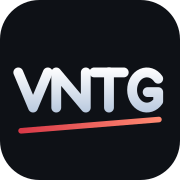
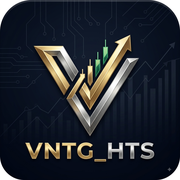
PWA — 전용 maskable 아이콘과 서비스 워커
홈 화면 아이콘이 북마크로 만들어져 누를 때마다 크롬 탭이 새로 열렸다. 안드로이드 크롬은 서비스 워커가 있어야 앱으로 설치해 준다.

캐시는 최소한만 한다. HTS 에서 낡은 값은 안 보여 주는 것보다 나쁘다 — 어제 종가를 오늘 현재가로 착각하면 판단이 통째로 틀어진다. /api/ 는 손도 대지 않고, 앱 껍데기만 네트워크 우선으로 담는다.

maskable 에 일반 아이콘을 쓰고 있었다. 안드로이드가 원형으로 깎을 때 가장자리 글자가 잘린다 — 여백을 둔 전용 파일로 바꿨다.

남은 건 HTTPS 뿐이다. Tailscale serve 로 붙이면 설치 가능해진다.

diff --git a/web/public/sw.js b/web/public/sw.js
@@ -1,0 +1,73 @@
+/*
+ * 서비스 워커.
+ *
+ * 있는 이유는 하나다 — **안드로이드 크롬이 이게 있어야 "앱으로 설치"를 시켜 준다.**
+ * 없으면 홈 화면 아이콘이 그냥 북마크가 되고, 누를 때마다 크롬 탭이 하나씩 새로 열린다.
+ *
+ * 그래서 **캐시는 최소한만** 한다. HTS 에서 낡은 값을 보여 주는 건 안 보여 주는 것보다
+ * 나쁘다 — 어제 종가를 오늘 현재가로 착각하면 판단이 통째로 틀어진다.
+ *
+ *   · `/api/` 는 **절대 캐시하지 않는다.** 손도 대지 않고 통과시킨다
+ *   · 앱 껍데기(HTML·JS·CSS·아이콘)만 담아 두되 **네트워크를 먼저** 본다.
+ *     새 버전을 받으면 그걸 쓰고, 網이 끊겼을 때만 담아 둔 걸 꺼낸다
+ *
+ * 미니PC 를 업데이트하면 파일 이름(해시)이 바뀌므로 낡은 껍데기는 아래에서 지운다.
+ */
+
+const CACHE = "vntg-shell-v1";
+
+self.addEventListener("install", (e) => {
+  // 새 워커가 즉시 일하게 한다 — 업데이트가 한 박자 늦게 먹는 걸 막는다
+  self.skipWaiting();
+  e.waitUntil(
+    caches.open(CACHE).then((c) =>
+      c.addAll(["./", "./index.html", "./manifest.json", "./icon-192.png"]).catch(() => undefined),
+    ),
+  );
+});
+
+self.addEventListener("activate", (e) => {
+  e.waitUntil(
+    caches
+      .keys()
+      .then((keys) => Promise.all(keys.filter((k) => k !== CACHE).map((k) => caches.delete(k))))
+      .then(() => self.clients.claim()),
+  );
+});
+
+self.addEventListener("fetch", (e) => {
+  const req = e.request;
+  if (req.method !== "GET") return;
+
+  const url = new URL(req.url);
+  // 시세·수급은 늘 새것이어야 한다. 캐시에 얼씬도 못 하게 한다
+  if (url.pathname.startsWith("/api/")) return;
+  // 다른 출처(야후 이미지 등)는 우리 소관이 아니다
+  if (url.origin !== self.location.origin) return;
+
+  e.respondWith(
+    fetch(req)
+      .then((res) => {
+        // 받은 김에 껍데기를 갱신해 둔다. 실패해도 응답은 그대로 돌려준다
+        if (res.ok) {
+          const copy = res.clone();
+          caches.open(CACHE).then((c) => c.put(req, copy)).catch(() => undefined);
+        }
+        return res;
+      })
+      .catch(async () => {
+        // 網이 끊겼을 때만 여기로 온다
+        const hit = await caches.match(req);
+        if (hit) return hit;
+        // SPA 라 어떤 경로로 들어와도 index.html 이 진입점이다
+        if (req.mode === "navigate") {
+          const shell = await caches.match("./index.html");
+          if (shell) return shell;
+        }
+        return new Response("오프라인입니다", {
+          status: 503,
+          headers: { "content-type": "text/plain; charset=utf-8" },
+        });
+      }),
+  );
+});

diff --git a/web/src/main.tsx b/web/src/main.tsx
@@ -15,3 +15,18 @@ ReactDOM.createRoot(document.getElementById("root")!).render(
     </AppearanceProvider>
   </React.StrictMode>,
 );
+
+/*
+ * 서비스 워커 등록.
+ *
+ * 안드로이드 크롬은 **서비스 워커가 있어야 홈 화면 아이콘을 앱으로 만들어 준다.**
+ * 없으면 북마크가 되고, 누를 때마다 크롬 탭이 하나씩 새로 열린다.
+ *
+ * 보안 컨텍스트(HTTPS 또는 localhost)에서만 등록된다 — http 로 접속하면 브라우저가
+ * 조용히 거절한다. 그래서 실패해도 아무 일도 하지 않는다. 화면은 그대로 돌아간다.
+ */
+if ("serviceWorker" in navigator) {
+  window.addEventListener("load", () => {
+    void navigator.serviceWorker.register("/sw.js").catch(() => undefined);
+  });
+}
